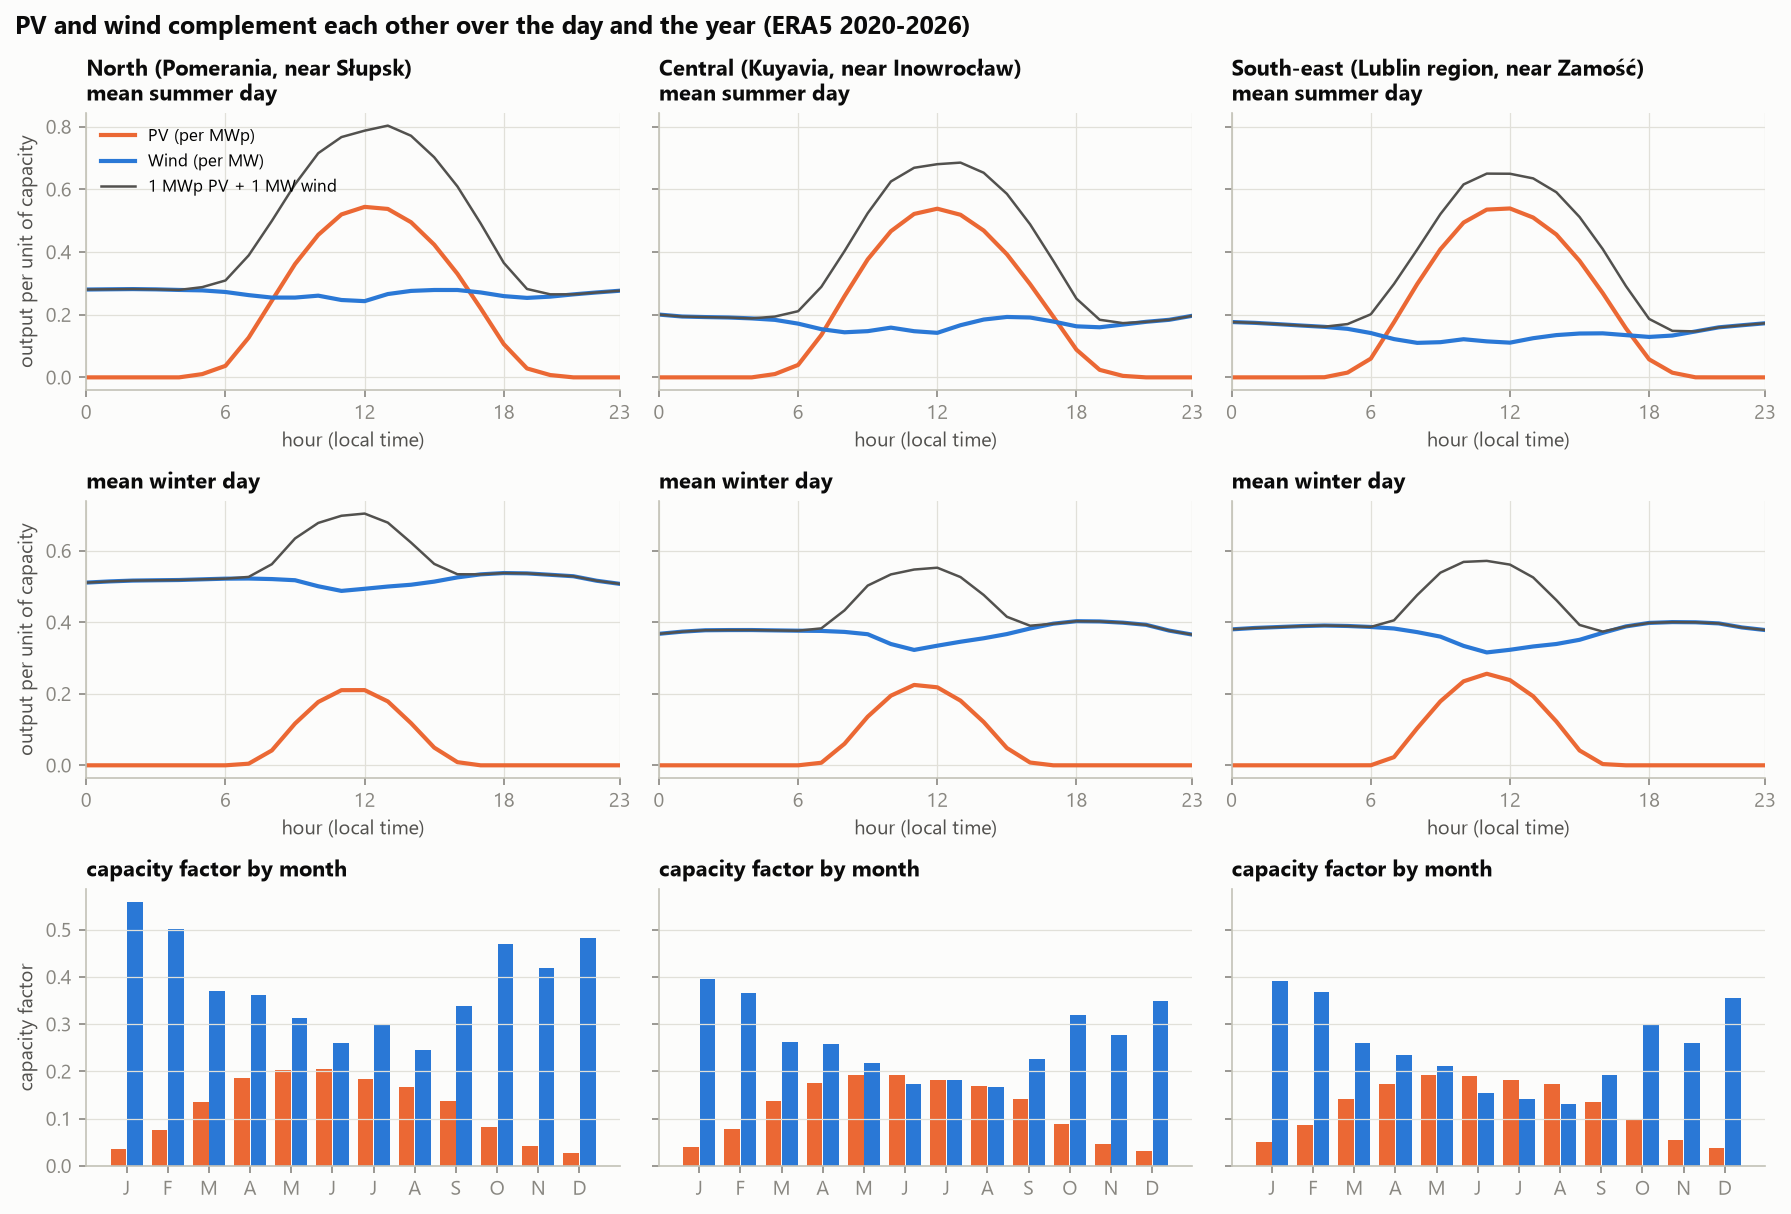
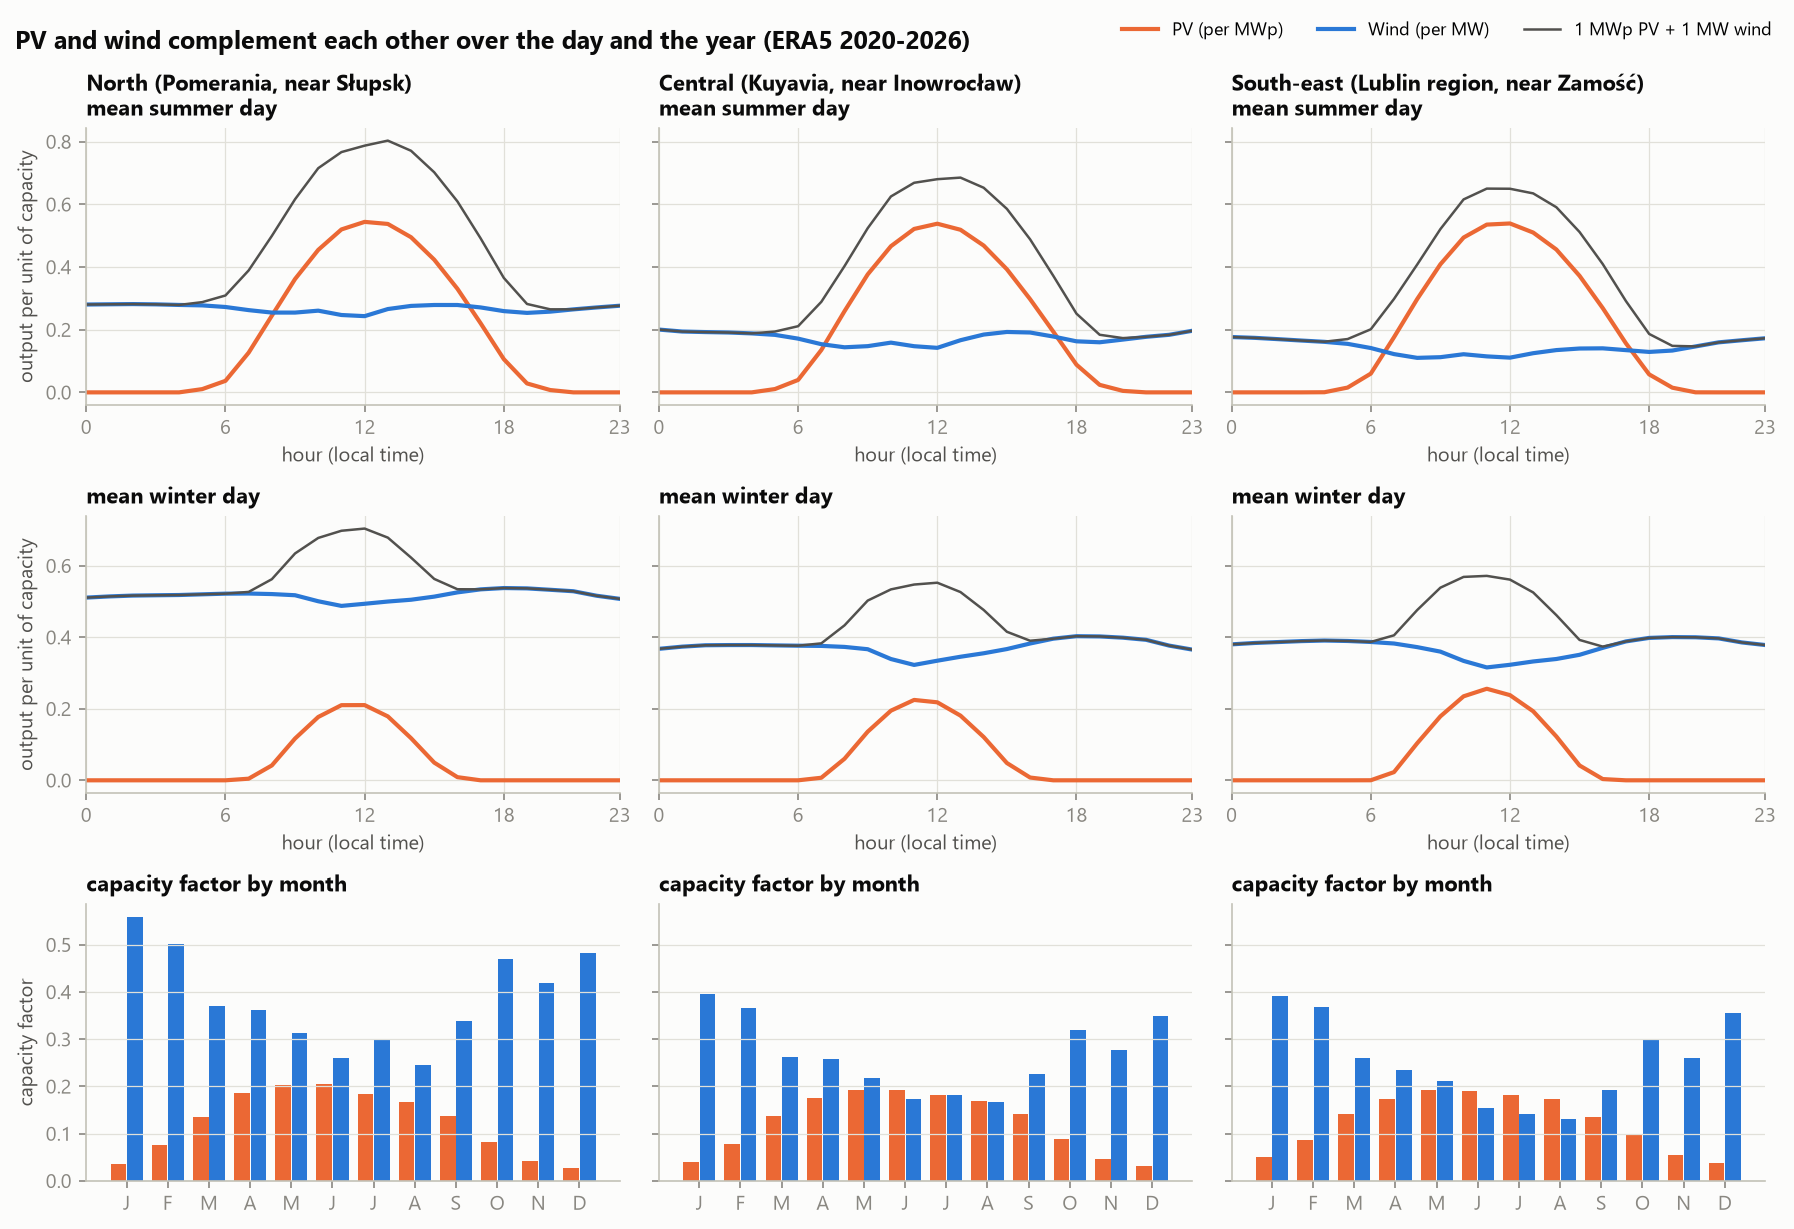
Charts: table scrolls on phones, week chart fits its card, legends clear
Page: the results table sits in a horizontally scrolling container, so the page
no longer scrolls sideways on phones; the week chart's container is as tall as
the chart (560 px), so dates and legend no longer spill out of the card;
legends under the axes hang below the axis titles (they grew upwards onto
them).

README: the complementarity legend moves beside the figure title (the PV + wind
curve crossed it in the first panel). Layout only; results unchanged.

diff --git a/docs/index.html b/docs/index.html
@@ -53,6 +53,8 @@ th:first-child, td:first-child { text-align: left; }
 .disclaimer { margin-top: 32px; padding: 12px; border-left: 3px solid var(--axis); color: var(--ink2); font-size: 13px; }
 a { color: var(--wind); }
 @media (max-width: 820px) { .grid2 { grid-template-columns: 1fr; } .chart { height: 360px; } }
+.chart.tall { height: 560px; }
+.scroll { overflow-x: auto; }
 </style>
 </head>
 <body>
@@ -86,11 +88,11 @@ Right: the best NPV reachable at each oversizing level (PV MWp + wind MW per MW 
 <p class="note" id="compnote"></p>
 
 <h2>Dispatch in the week with most negative prices</h2>
-<div class="card"><div id="week" class="chart"></div></div>
+<div class="card"><div id="week" class="chart tall"></div></div>
 <p class="note" id="weeknote"></p>
 
 <h2>Best configuration per battery option</h2>
-<div class="card"><table id="table"></table></div>
+<div class="card scroll"><table id="table"></table></div>
 
 <div class="disclaimer" id="disc"></div>
 </main>
@@ -118,7 +120,7 @@ function layout(extra) {
     margin: {l: 56, r: 16, t: 40, b: 48}, hoverlabel: {font: {size: 12}},
     xaxis: {gridcolor: css("--grid"), linecolor: css("--axis"), zeroline: false},
     yaxis: {gridcolor: css("--grid"), linecolor: css("--axis"), zeroline: false},
-    legend: {orientation: "h", y: -0.2},
+    legend: {orientation: "h", y: -0.28, yanchor: "top"},  // hangs below the axis title instead of growing onto it
   }, extra);
 }
 const CONF = {displaylogo: false, responsive: true, modeBarButtonsToRemove: ["lasso2d", "select2d"]};
@@ -236,7 +238,7 @@ function drawWeek(c) {
     yaxis2: {title: "MWh", domain: [0.26, 0.42], gridcolor: css("--grid")},
     yaxis3: {title: "PLN/MWh", domain: [0, 0.2], gridcolor: css("--grid"), zeroline: true, zerolinecolor: css("--axis")},
     shapes: [{type: "line", xref: "paper", x0: 0, x1: 1, yref: "y", y0: 1, y1: 1, line: {color: css("--ink2"), width: 1}}],
-    legend: {orientation: "h", y: -0.14}, margin: {l: 56, r: 16, t: 24, b: 80},
+    legend: {orientation: "h", y: -0.14, yanchor: "top"}, margin: {l: 56, r: 16, t: 24, b: 80},
   }), CONF);
   $("weeknote").textContent = `${c.site.name}, ${w.label} (best NPV with a battery, ${D.report_grid} MW connection). The line at 1.0 is the connection limit. Same for every connection size, since everything scales with G.`;
 }

diff --git a/src/cable_pooling/dashboard.py b/src/cable_pooling/dashboard.py
@@ -142,6 +142,8 @@ th:first-child, td:first-child { text-align: left; }
 .disclaimer { margin-top: 32px; padding: 12px; border-left: 3px solid var(--axis); color: var(--ink2); font-size: 13px; }
 a { color: var(--wind); }
 @media (max-width: 820px) { .grid2 { grid-template-columns: 1fr; } .chart { height: 360px; } }
+.chart.tall { height: 560px; }
+.scroll { overflow-x: auto; }
 </style>
 </head>
 <body>
@@ -175,11 +177,11 @@ Right: the best NPV reachable at each oversizing level (PV MWp + wind MW per MW 
 <p class="note" id="compnote"></p>
 
 <h2>Dispatch in the week with most negative prices</h2>
-<div class="card"><div id="week" class="chart"></div></div>
+<div class="card"><div id="week" class="chart tall"></div></div>
 <p class="note" id="weeknote"></p>
 
 <h2>Best configuration per battery option</h2>
-<div class="card"><table id="table"></table></div>
+<div class="card scroll"><table id="table"></table></div>
 
 <div class="disclaimer" id="disc"></div>
 </main>
@@ -207,7 +209,7 @@ function layout(extra) {
     margin: {l: 56, r: 16, t: 40, b: 48}, hoverlabel: {font: {size: 12}},
     xaxis: {gridcolor: css("--grid"), linecolor: css("--axis"), zeroline: false},
     yaxis: {gridcolor: css("--grid"), linecolor: css("--axis"), zeroline: false},
-    legend: {orientation: "h", y: -0.2},
+    legend: {orientation: "h", y: -0.28, yanchor: "top"},  // hangs below the axis title instead of growing onto it
   }, extra);
 }
 const CONF = {displaylogo: false, responsive: true, modeBarButtonsToRemove: ["lasso2d", "select2d"]};
@@ -325,7 +327,7 @@ function drawWeek(c) {
     yaxis2: {title: "MWh", domain: [0.26, 0.42], gridcolor: css("--grid")},
     yaxis3: {title: "PLN/MWh", domain: [0, 0.2], gridcolor: css("--grid"), zeroline: true, zerolinecolor: css("--axis")},
     shapes: [{type: "line", xref: "paper", x0: 0, x1: 1, yref: "y", y0: 1, y1: 1, line: {color: css("--ink2"), width: 1}}],
-    legend: {orientation: "h", y: -0.14}, margin: {l: 56, r: 16, t: 24, b: 80},
+    legend: {orientation: "h", y: -0.14, yanchor: "top"}, margin: {l: 56, r: 16, t: 24, b: 80},
   }), CONF);
   $("weeknote").textContent = `${c.site.name}, ${w.label} (best NPV with a battery, ${D.report_grid} MW connection). The line at 1.0 is the connection limit. Same for every connection size, since everything scales with G.`;
 }

diff --git a/src/cable_pooling/plots.py b/src/cable_pooling/plots.py
@@ -66,7 +66,9 @@ def complementarity(profiles, names: dict, path: Path) -> None:
         ax.grid(axis="x", visible=False)
         if j == 0:
             ax.set_ylabel("capacity factor")
-    axes[0, 0].legend(loc="upper left", fontsize=8)
+    # beside the title: inside the first panel the rising PV + wind curve crossed it
+    fig.legend(*axes[0, 0].get_legend_handles_labels(), loc="upper right", bbox_to_anchor=(0.995, 1.0), ncol=3,
+               fontsize=8.5, frameon=False)
     fig.suptitle(f"PV and wind complement each other over the day and the year (ERA5 "
                  f"{profiles[0].hourly.index.year.min()}-{profiles[0].hourly.index.year.max()})",
                  x=0.01, ha="left", fontsize=12, fontweight="bold", color=INK)
